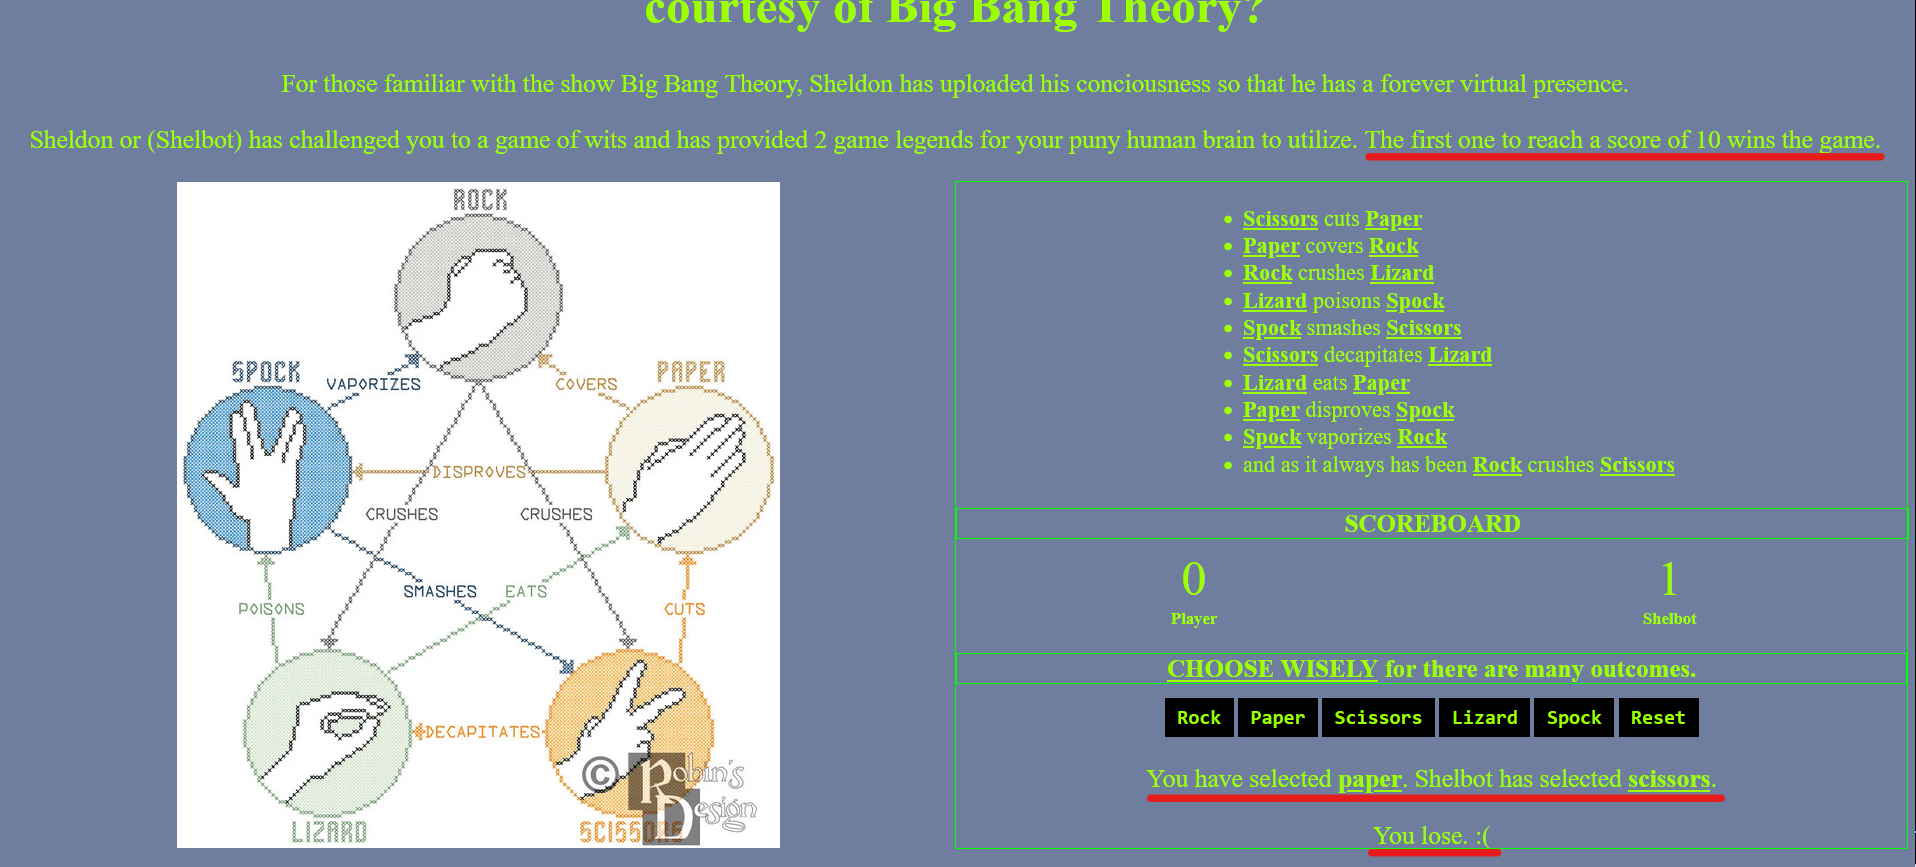
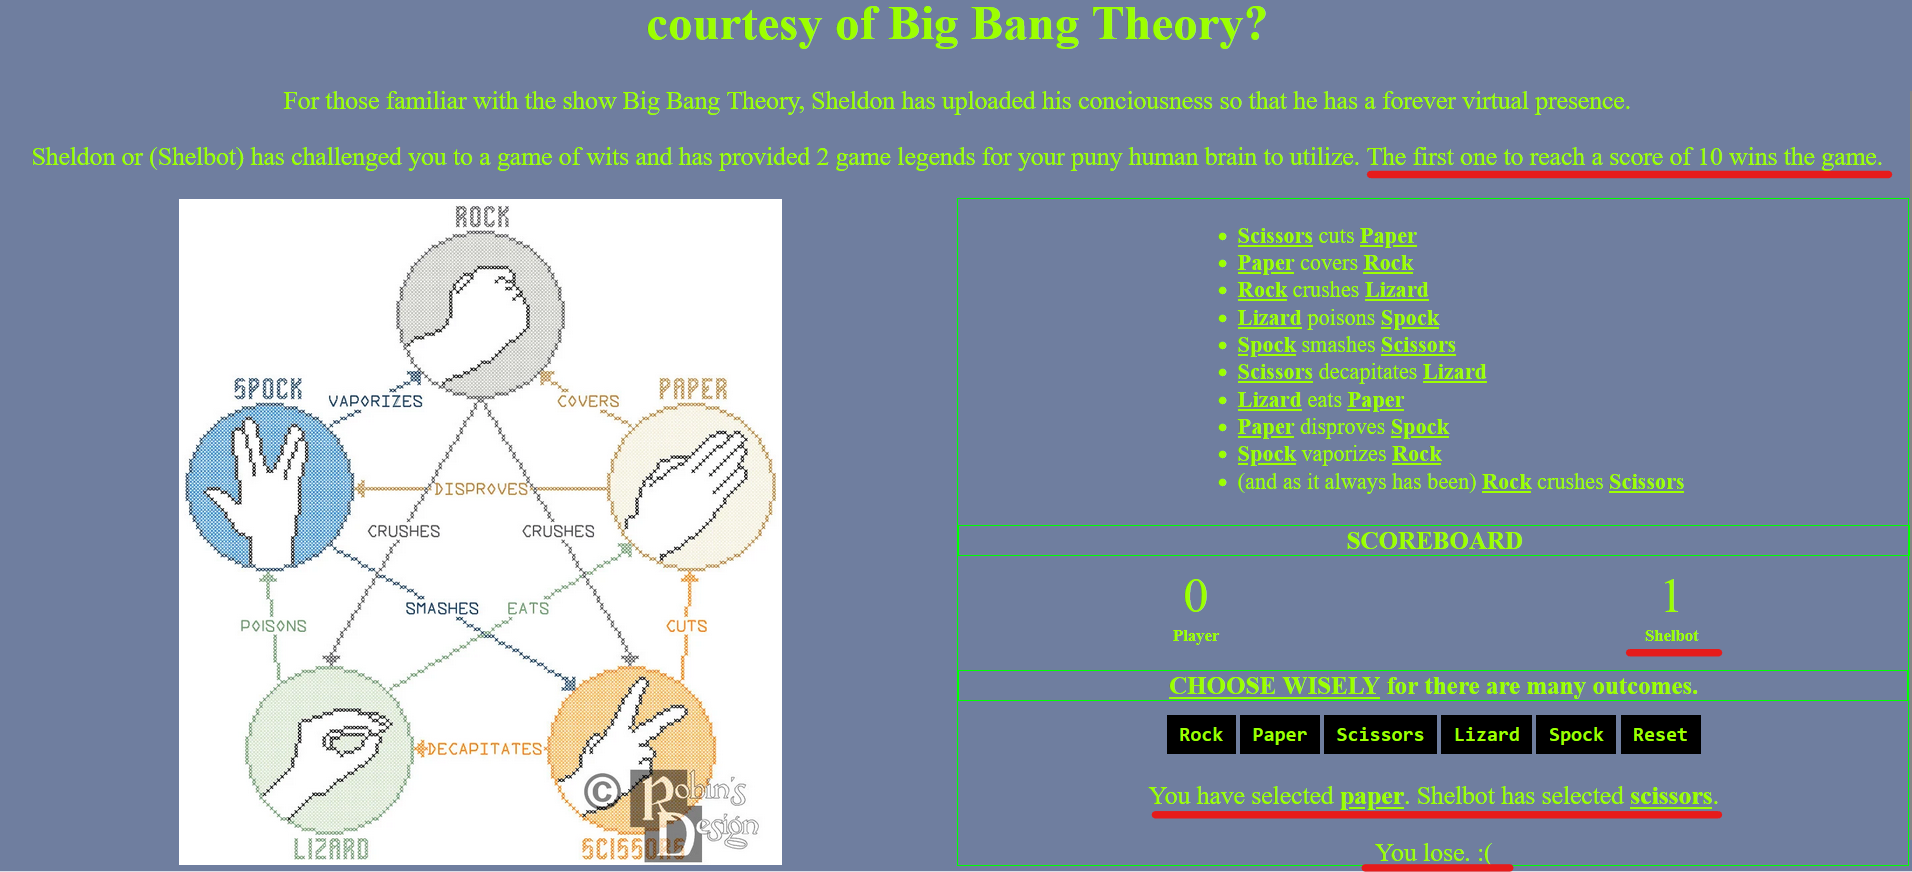
replaced image

diff --git a/index.html b/index.html
@@ -39,7 +39,7 @@
                     <li><strong>Lizard</strong> eats <strong>Paper</strong></li>
                     <li><strong>Paper</strong> disproves <strong>Spock</strong></li>
                     <li><strong>Spock</strong> vaporizes <Strong>Rock</Strong></li>
-                    <li>and as it always has been <Strong>Rock</Strong> crushes <strong>Scissors</strong></li>
+                    <li>(and as it always has been) <Strong>Rock</Strong> crushes <strong>Scissors</strong></li>
                 </ul>
             </div>
             <h2>SCOREBOARD</h2>
